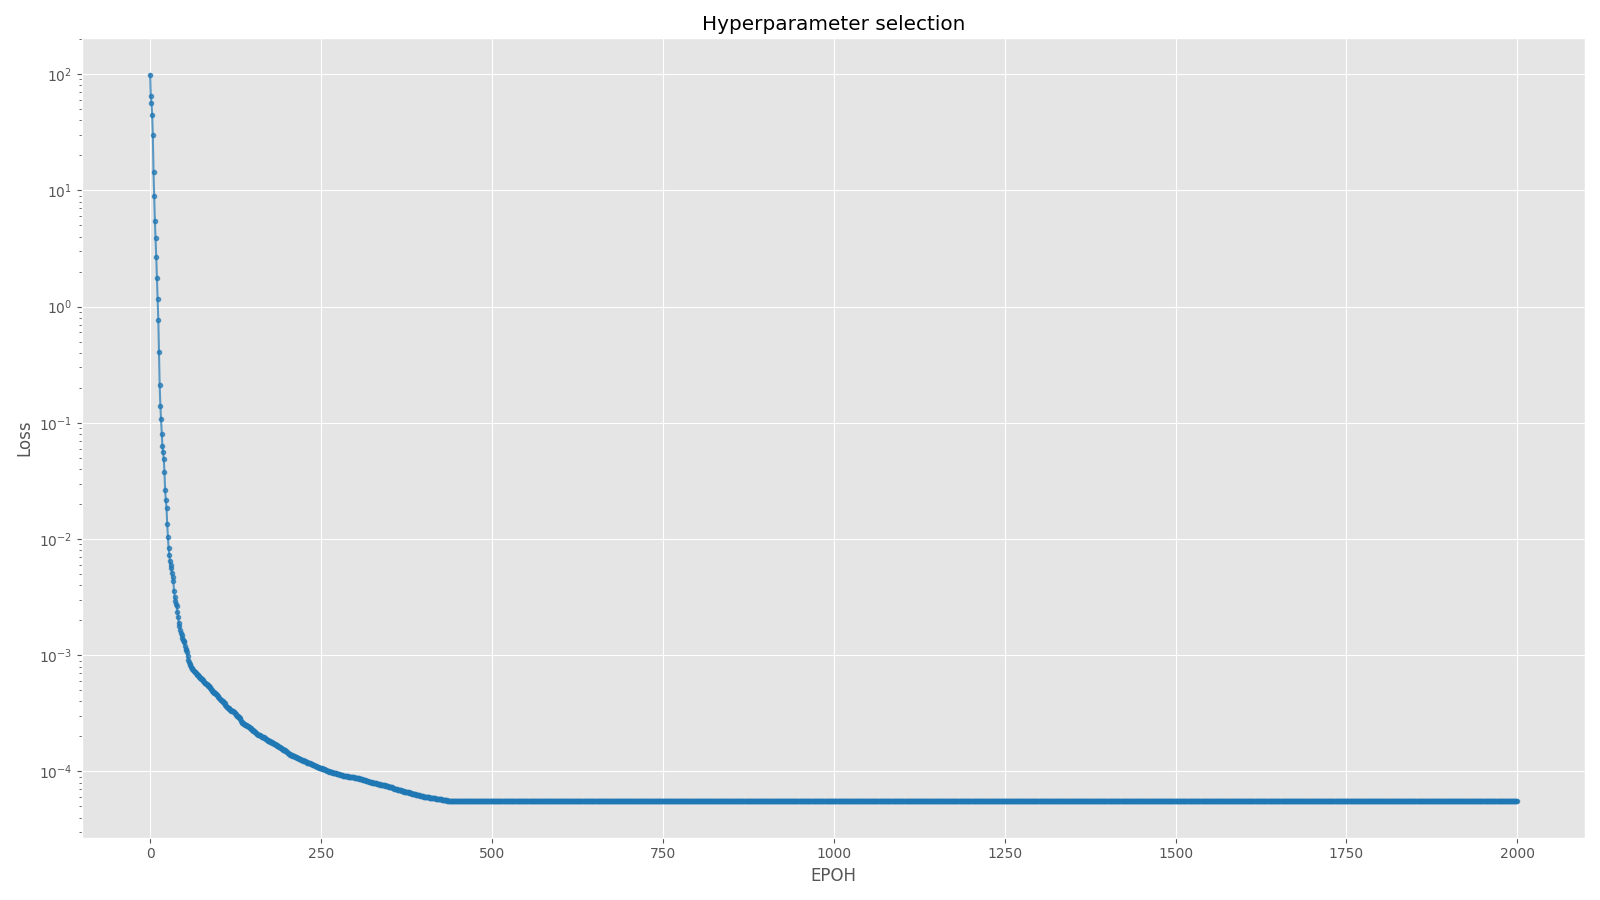
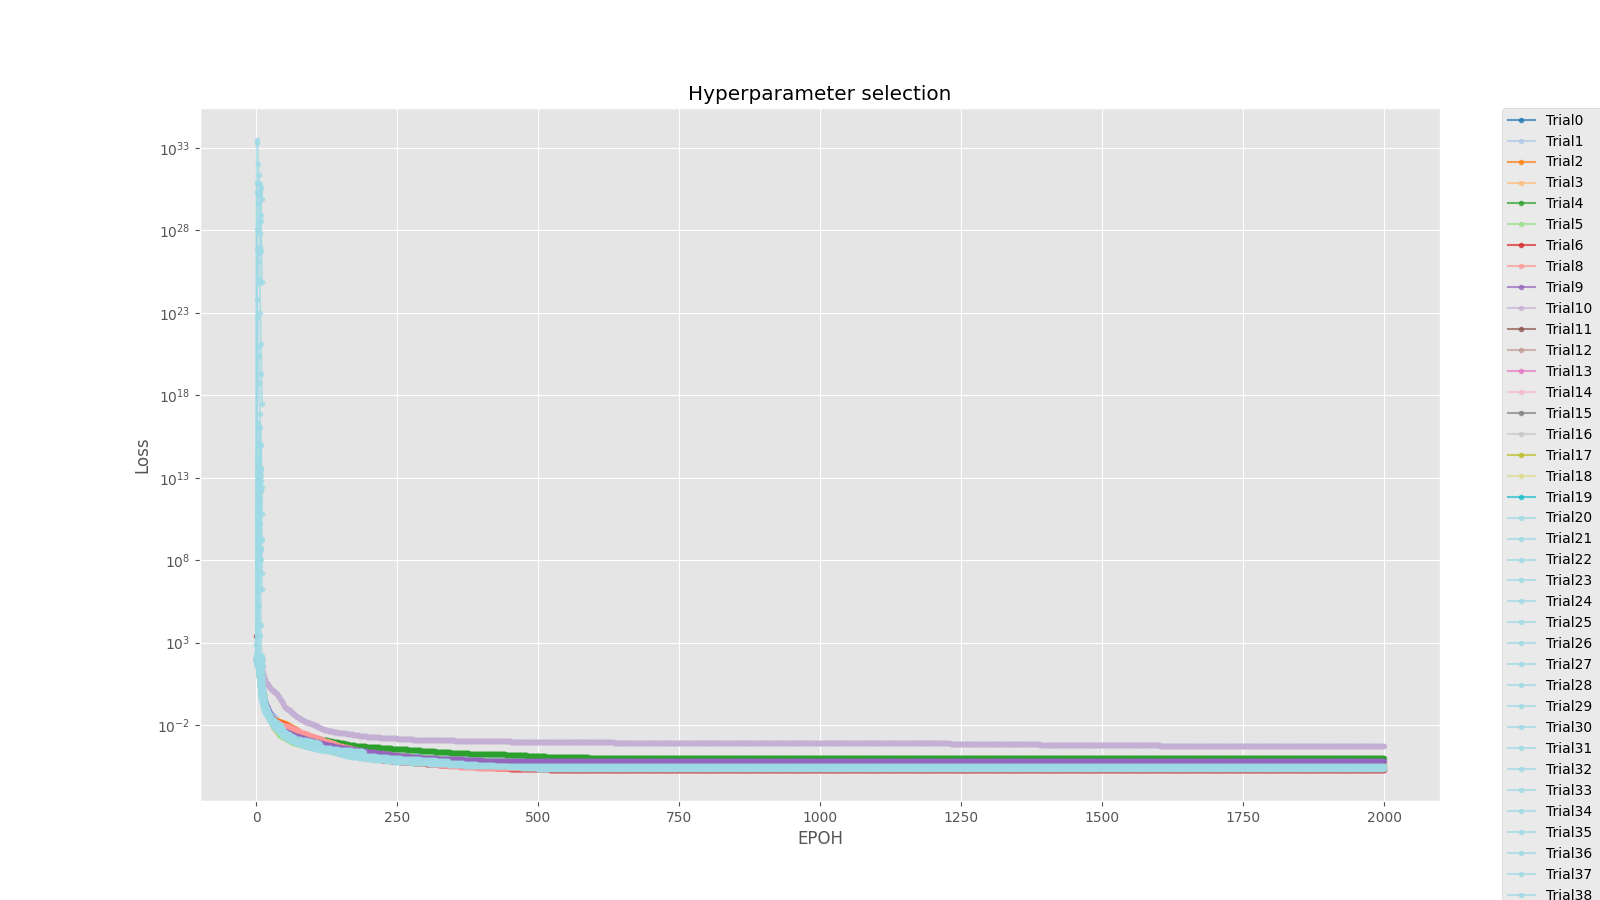
optuna graph upd2

Changed region(s): [[0.0, 0.0, 1.0, 1.0]]

diff --git a/src/Neural_Network.py b/src/Neural_Network.py
@@ -231,10 +231,10 @@ if __name__ == "__main__":
         study = optuna.create_study(
             direction="minimize",
             pruner=optuna.pruners.MedianPruner(
-                n_startup_trials=3, n_warmup_steps=10, interval_steps=3
+                n_startup_trials=10, n_warmup_steps=10, interval_steps=3
                 ),
                 )
-        study.optimize(objective, n_trials=1)
+        study.optimize(objective, n_trials=200)
 
         ax1 = optuna.visualization.matplotlib.plot_intermediate_values(study)
         ax2 = optuna.visualization.matplotlib.plot_intermediate_values(study)
